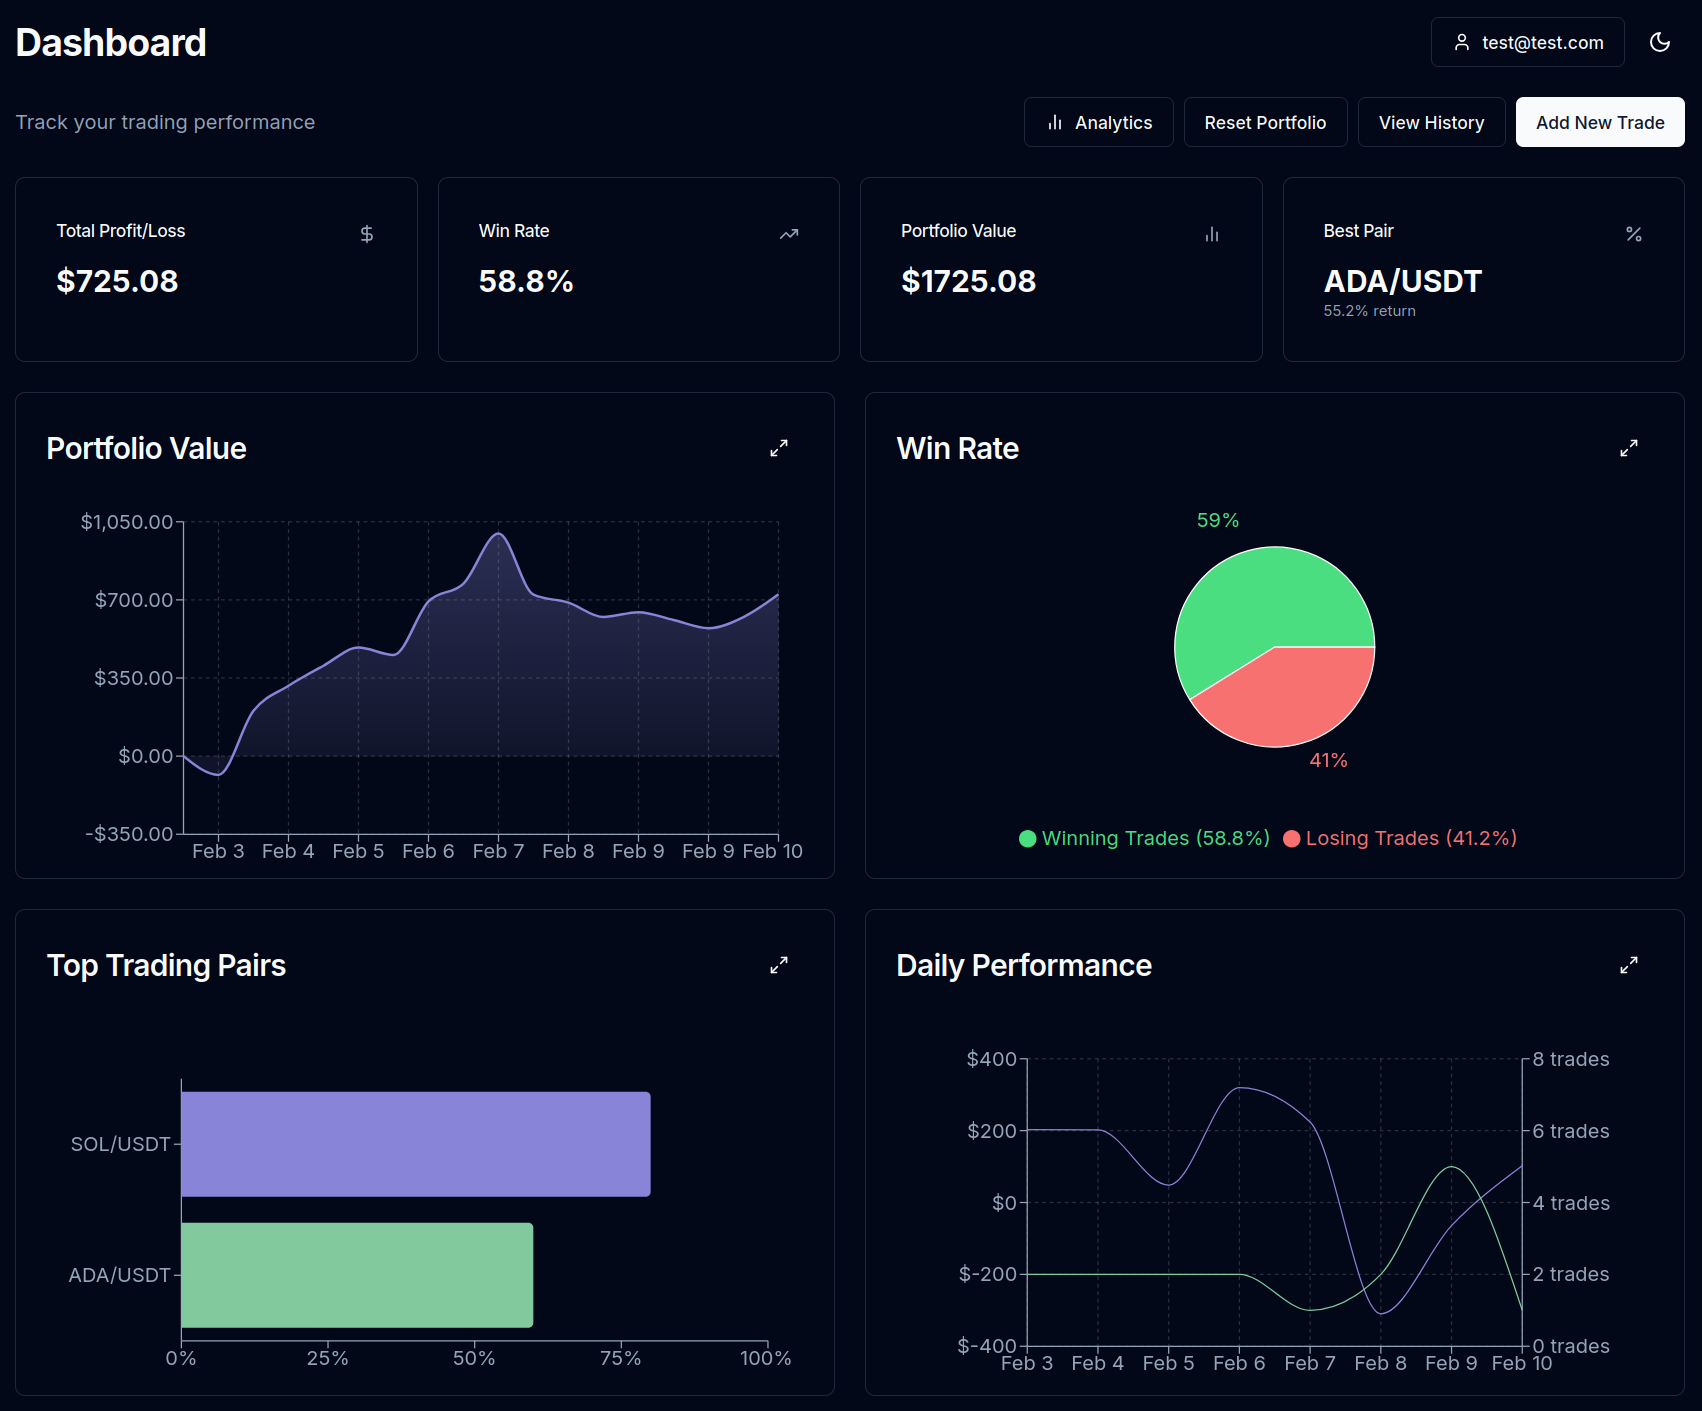
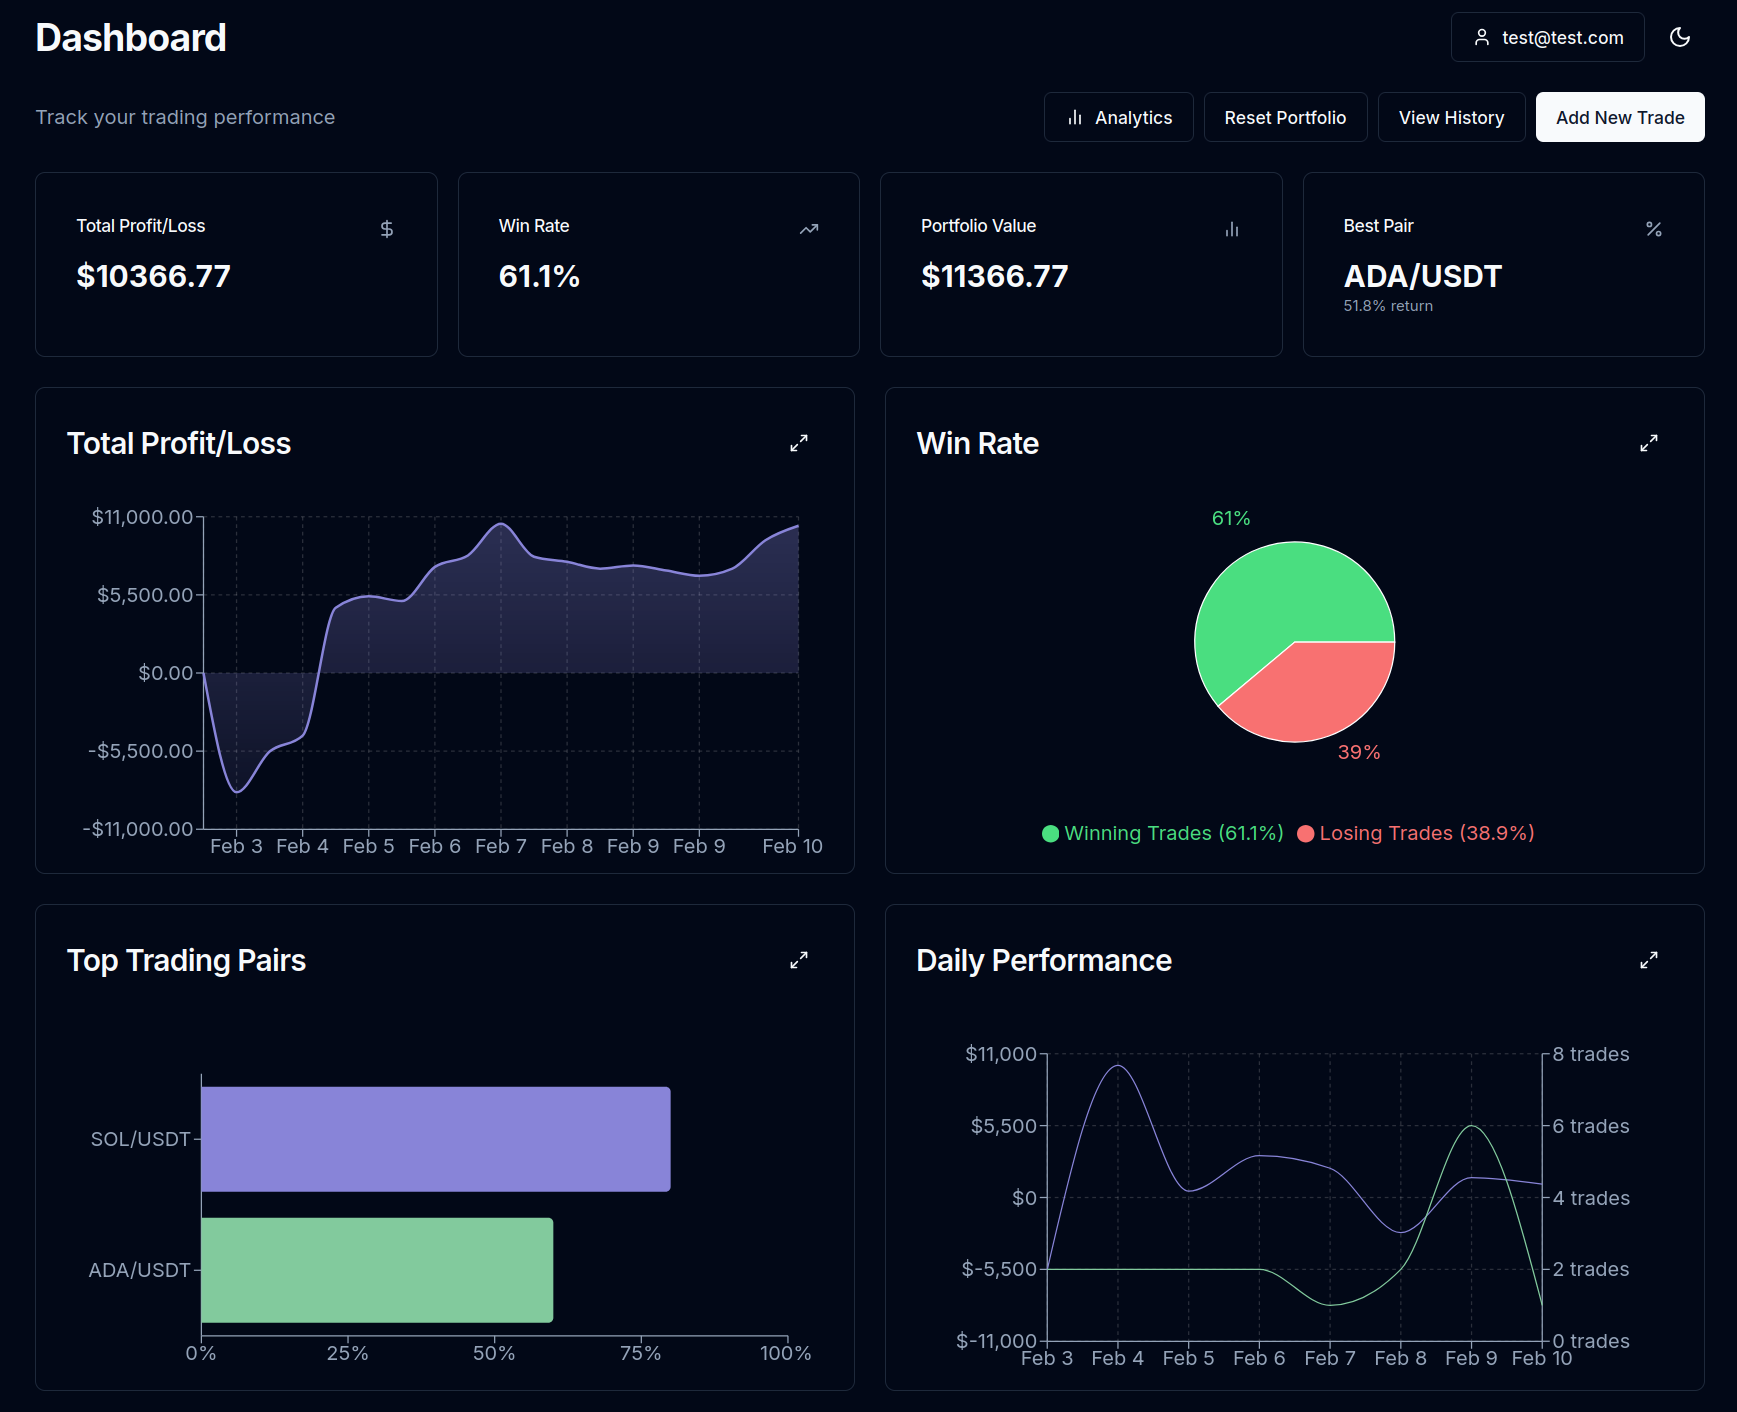
Small fix

diff --git a/frontend/src/components/charts/portfolio-chart.tsx b/frontend/src/components/charts/portfolio-chart.tsx
@@ -96,7 +96,7 @@ export function PortfolioChart({ isExpanded, onExpandChange }: PortfolioChartPro
                         tick={{ fill: 'hsl(var(--muted-foreground))' }}
                     />
                     <Tooltip
-                        formatter={(value: number) => [formatCurrency(value), "Portfolio Value"]}
+                        formatter={(value: number) => [formatCurrency(value), "Profit"]}
                         labelFormatter={(label) => format(new Date(label), 'MMM d, yyyy')}
                         contentStyle={{
                             backgroundColor: 'hsl(var(--popover))',
@@ -142,7 +142,7 @@ export function PortfolioChart({ isExpanded, onExpandChange }: PortfolioChartPro
             <ChartDialog
                 open={isExpanded}
                 onOpenChange={onExpandChange}
-                title="Portfolio Value"
+                title="Total Profit/Loss Over Time"
             >
                 {renderChart("h-full w-full")}
             </ChartDialog>

diff --git a/frontend/src/components/pages/dashboard.tsx b/frontend/src/components/pages/dashboard.tsx
@@ -114,7 +114,7 @@ export function DashboardPage() {
                     <Card>
                         <CardHeader>
                             <div className="flex justify-between items-center">
-                                <CardTitle>Portfolio Value</CardTitle>
+                                <CardTitle>Total Profit/Loss</CardTitle>
                                 <Button
                                     variant="ghost"
                                     size="icon"
